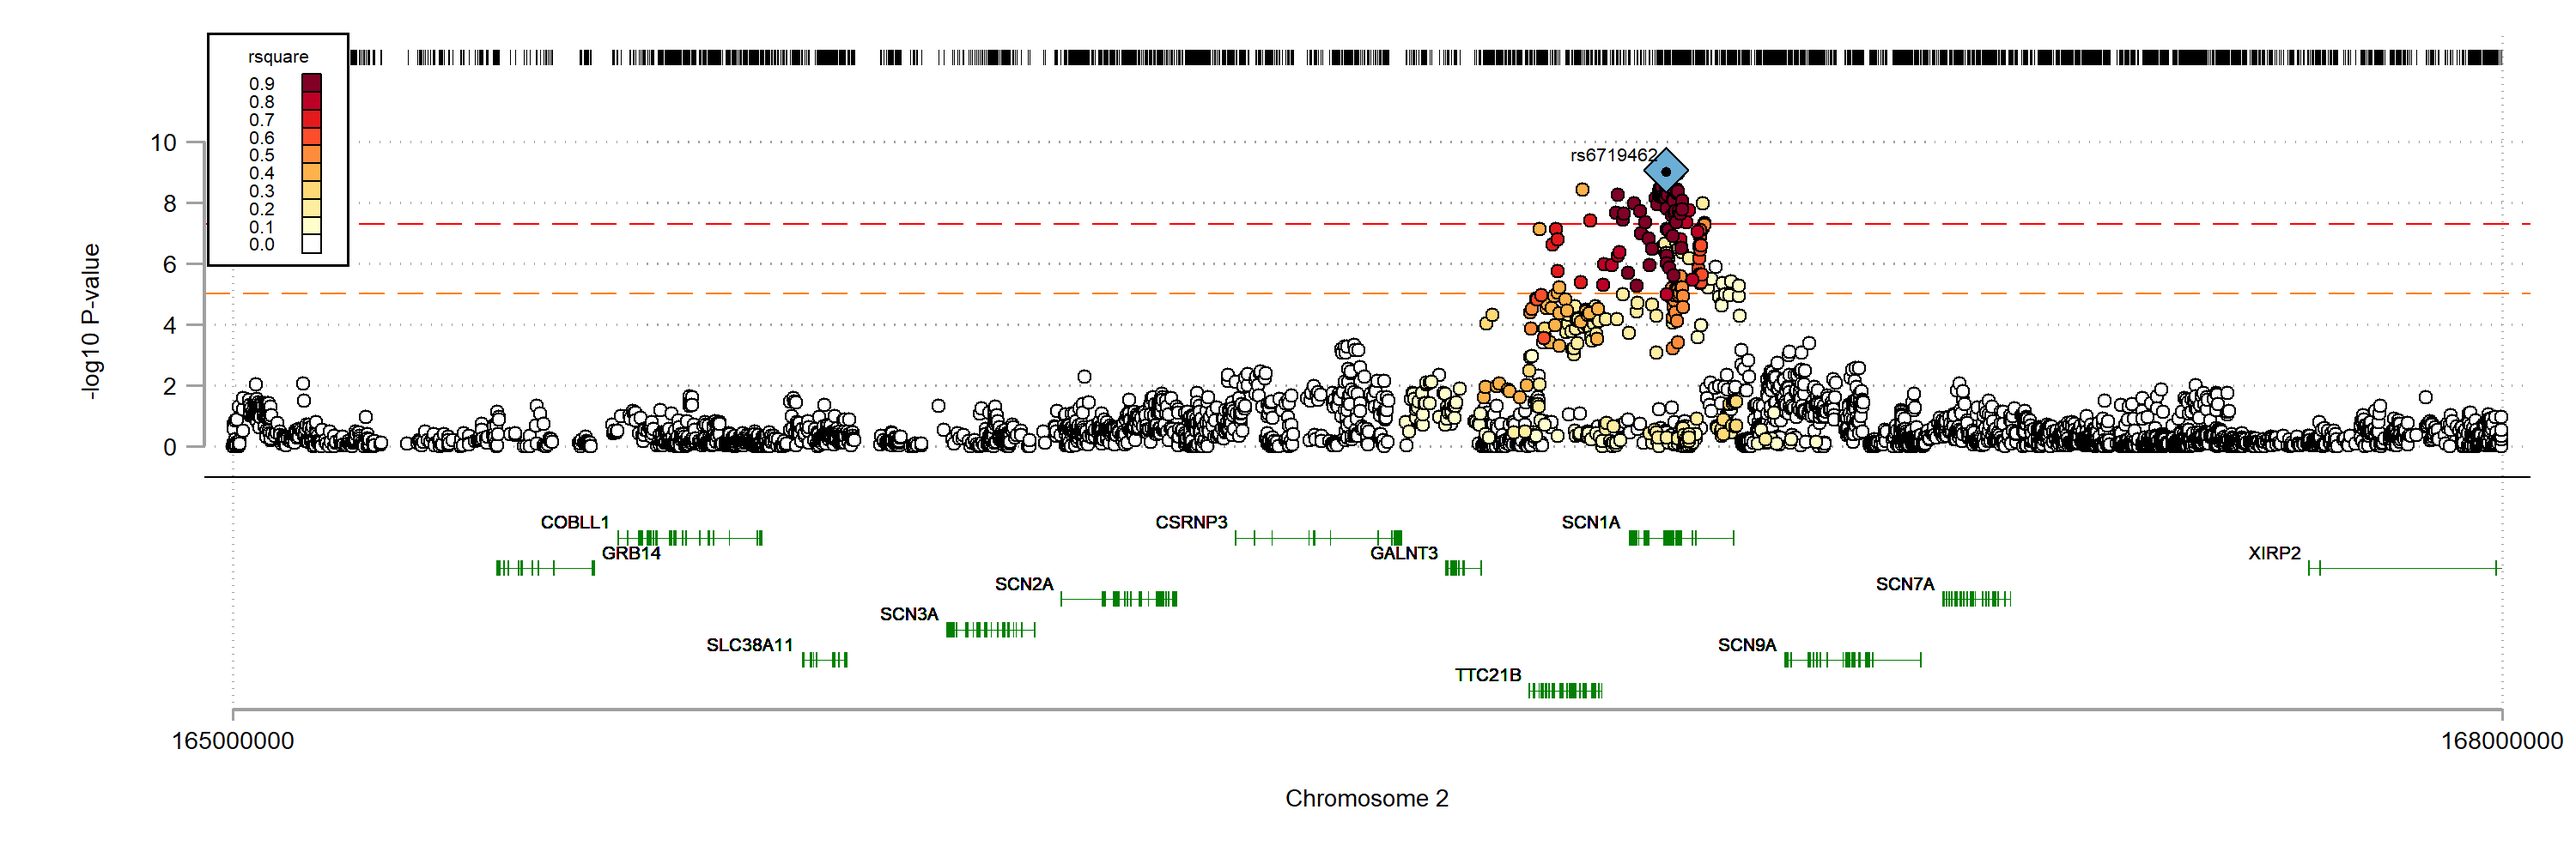
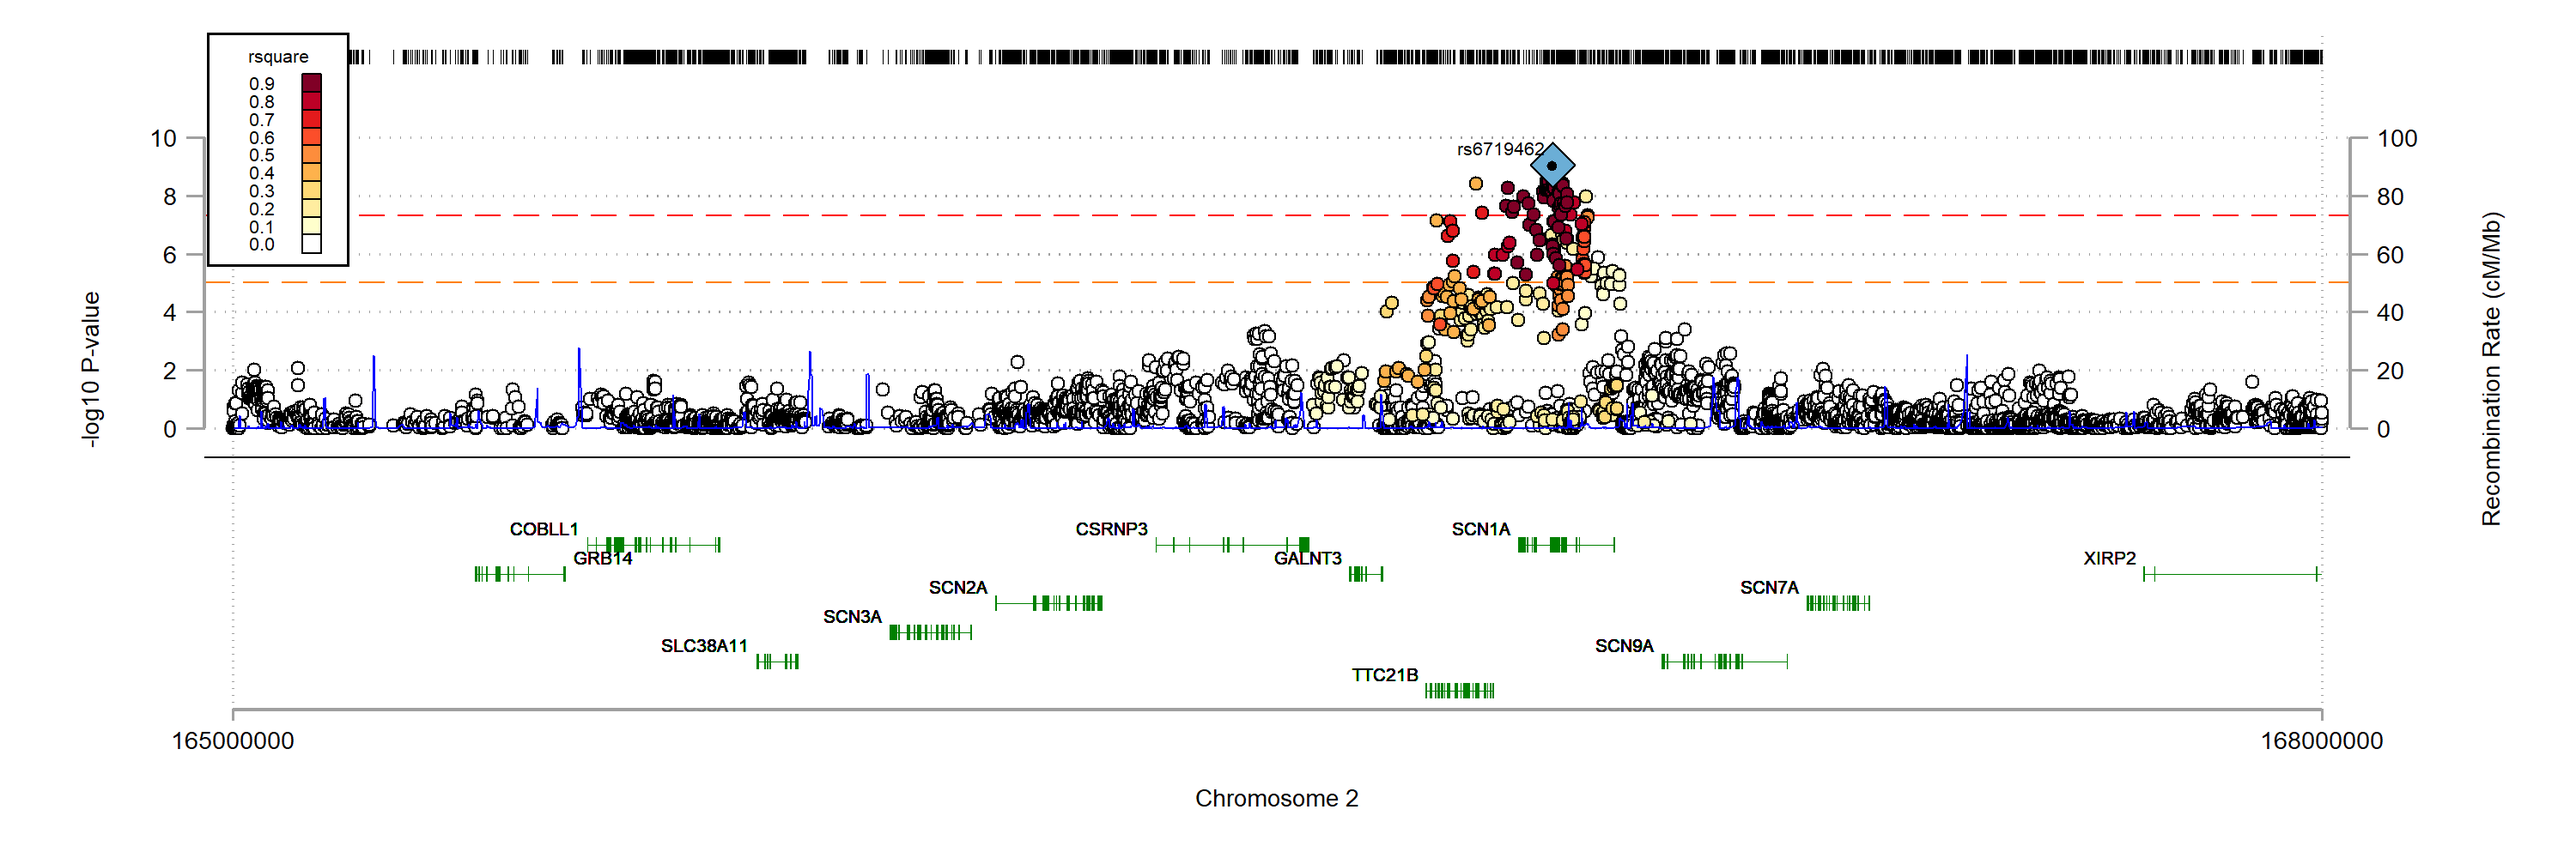
add recombination rate to graphlocus

diff --git a/documents/graphlocus.md b/documents/graphlocus.md
@@ -17,7 +17,7 @@
 * ```-bp-``` varname of the bp variable (hg19)
 * ```-p-``` varname of the p variable
 * ```-ldref-``` reference genotype to calculate linkage disequilibrium
-* ```-recombref-``` reference recombination rate (hg19) **-not implemented-**
+* ```-recombref-``` reference recombination rate (hg19) 
 * ```-generef-``` reference gene/exon co-ordinates (hg19)
 * ```-maxp-``` minimum p-value to display (default = 1e-10 (10))
 * ```-gwsp-``` gw-significant p-value (default 5e-8 (7.3)) 
@@ -38,4 +38,4 @@
 
 **known bugs**
 * does not work if there is a gene desert __-fix-__
-* problems encoding recombination rate on yaxis(2) __-removed-__ __-add later-__
+* problems encoding recombination rate on yaxis(2) __-fixed-__ 
